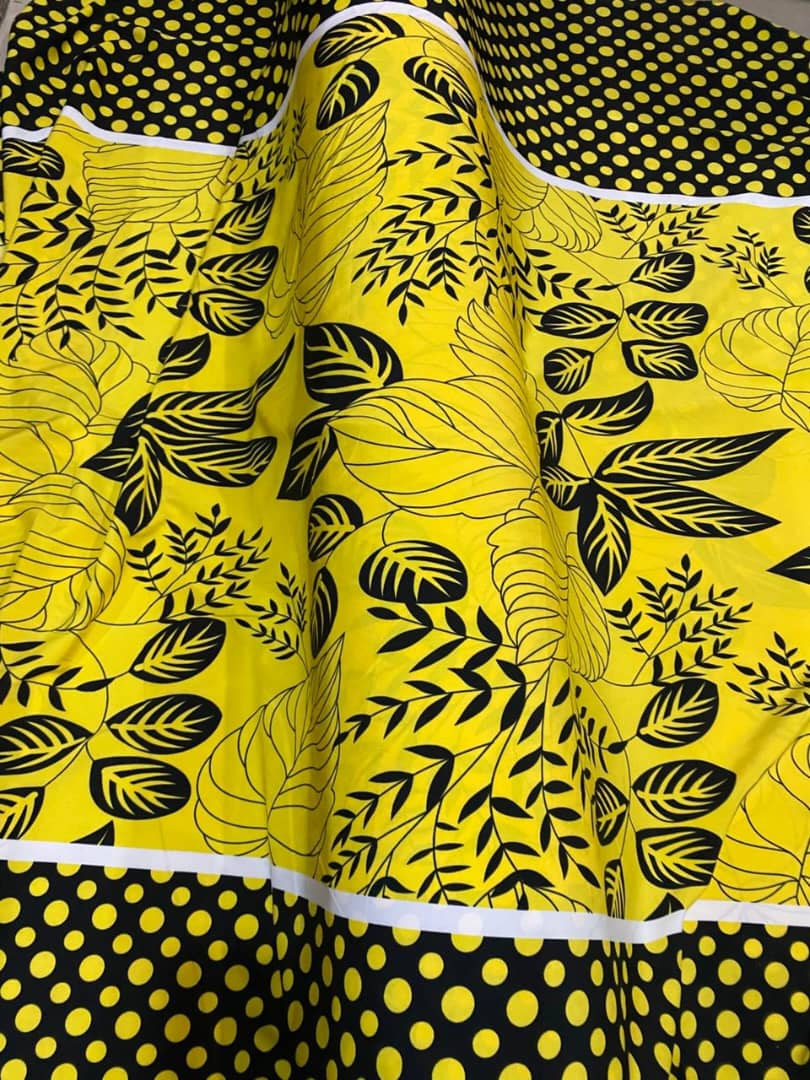
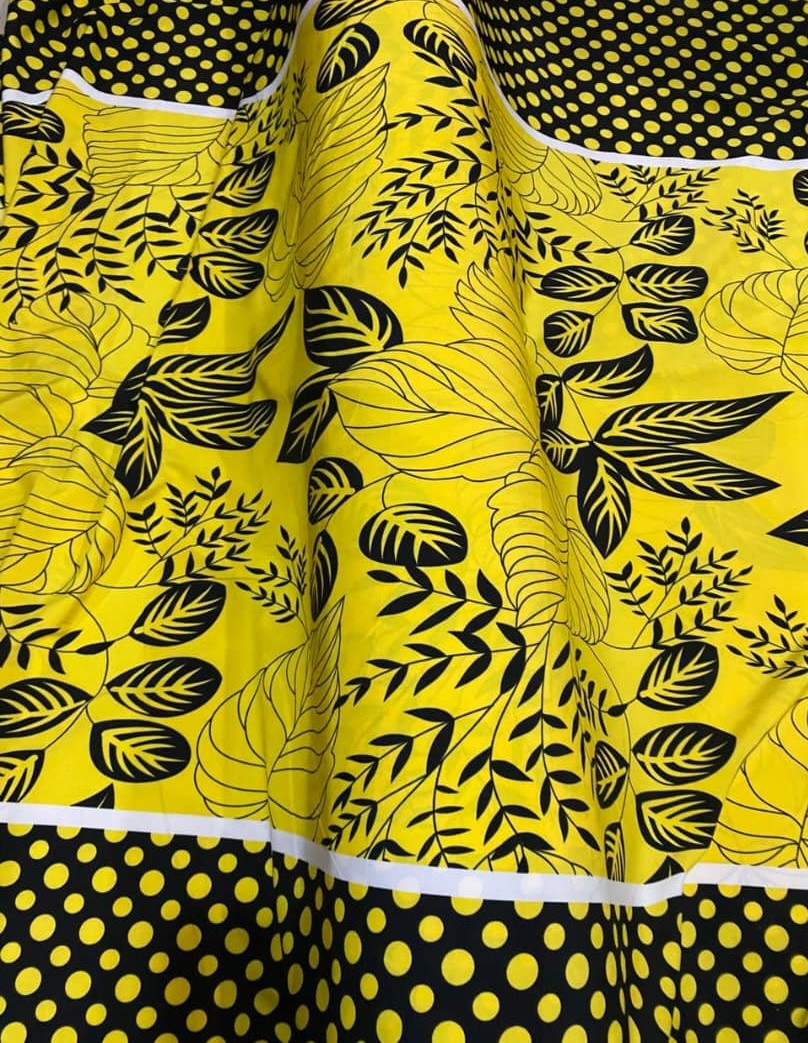
commi

diff --git a/style.css b/style.css
@@ -29,11 +29,12 @@ body {
 /* Default: show text, hide image (desktop) */
 .head-text {
     text-align: center;
+    background-color: rgba(56, 21, 25);
 }
 .head-image {
     display: none;
 }
-.head p {
+.s-s {
     color:#fff;
     font-size: clamp(0.9em, 3vw, 2em);
     font-weight: 400;
@@ -59,18 +60,18 @@ span {
     color: rgb(71, 71, 71);
 }
 
-figure {
+.banner {
     display: flex;
     align-items: center;
     justify-content: space-between;
-    margin: 10px 10px;
+    flex: 1;
 }
-figure img {
+.banner img {
     height: 90vh;
     border: 5px transparent;
     border-radius: 20px;
 }
-figure img:hover {
+.s-s img:hover {
     transform: translateY(5px);
 }
 /* For screens up to 480px wide (small mobile phones) */

diff --git a/index.html b/index.html
@@ -10,21 +10,11 @@
 <body>
           
            <h1 class="head-text">D'lette <span>Collections</span></h1>
-            <p class="head-text">Shop n Smile</p>
+            <p class="head-text s-s">Shop n Smile</p>
             <img class="head-image" src="./Images/dlettelogo.png">
 <div class="banner">
-    <figure>
- <img src="./Images/fabric1.jpg">
-  <img src="./Images/model1a.jpg">
-  <img src="./Images/model1b.png">
-  </figure>
-</div>
-<div class="banner">
-    <figure>
-  <img src="./Images/fabric2.jpg">
-  <img src="./Images/model2a.png">
-  <img src="./Images/model2b.png">
-  </figure>
+ <img src="./Images/fabricand model1.png">
+  <img src="./Images/fabricandmodel2.png">
 </div>
 </body>
 </html>
